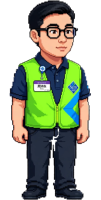
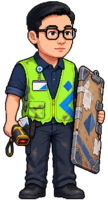
feat: 重塑两名角色视觉并接入游戏
影响范围: assets-src/heroes/candidates, public/assets/heroes, scripts/prep-assets.cjs, README.md, engine/data/classes.js, HANDOFF.md

diff --git a/engine/data/classes.js b/engine/data/classes.js
@@ -4,10 +4,10 @@
  * 目前只开放两个角色（素材由用户提供）。每个角色既是"外观"也是"职业"，
  * 拥有各自的属性成长与技能树。
  *
- * 【加角色】往 CLASSES 里加一项 + CLASS_ORDER 加 id，并准备 4 张素材：
- *    assets-src/heroes/<sprite>_full.png   全身立绘（深色纯底）
- *    assets-src/heroes/<sprite>_walk.png   走路精灵表（4 帧横排）
- *   然后跑 node scripts/prep-assets.cjs 生成到 public/assets/heroes/
+ * 【加角色】往 CLASSES 里加一项 + CLASS_ORDER 加 id，并准备两张源素材：
+ *    全身立绘（透明图或深色纯底图）
+ *    走路精灵表（4 帧横排）
+ *   在 scripts/prep-assets.cjs 的 MANIFEST 登记后生成到 public/assets/heroes/
  *
  * 技能效果用统一的 effect 结构描述，engine/hero.js 负责算成属性。
  */
@@ -29,11 +29,20 @@ const CLASSES = {
     base: { hp: 230, atk: 15, def: 15, heal: 6, atkSpeed: 0.95, crit: 0.05, critDmg: 1.5, moveSpeed: 1.0 },
     growth: { hp: 21.0, atk: 1.15, def: 2.0, heal: 0.75 },
     skills: [
-      { id: 'n_hp',    name: '牛马体魄', type: 'passive', max: 10, desc: '每级 +6% 最大生命',        effect: { pctHp: 0.06 } },
+      {
+        id: 'n_hp', name: '牛马体魄', type: 'passive', max: 10,
+        desc: '每级 +6% 最大生命', effect: { pctHp: 0.06 }
+      },
       { id: 'n_def',   name: '耐磨护甲', type: 'passive', max: 10, desc: '每级 +7% 防御',            effect: { pctDef: 0.07 } },
-      { id: 'n_regen', name: '摸鱼回血', type: 'passive', max: 8,  desc: '每级 +30% 每秒回复',       effect: { healPower: 0.30 } },
+      {
+        id: 'n_regen', name: '摸鱼回血', type: 'passive', max: 8,
+        desc: '每级 +30% 每秒回复', effect: { healPower: 0.30 }
+      },
       { id: 'n_shield',name: 'KPI 护盾', type: 'active',  max: 5,  desc: '每级开场获得 5% 生命护盾', effect: { shield: 0.05 } },
-      { id: 'n_taunt', name: '扛下所有', type: 'active',  max: 5,  desc: '每级 +3% 全队生命',        effect: { partyHpPct: 0.03 } },
+      {
+        id: 'n_taunt', name: '扛下所有', type: 'active', max: 5,
+        desc: '每级 +3% 全队生命', effect: { partyHpPct: 0.03 }
+      },
       { id: 'n_thorns',name: '反骨',     type: 'passive', max: 8,  desc: '每级反弹 4% 受到伤害',     effect: { thorns: 0.04 } },
       { id: 'n_gold',  name: '打工攒钱', type: 'passive', max: 5,  desc: '每级 +4% 金币获取',        effect: { goldPct: 0.04 } }
     ]

diff --git a/HANDOFF.md b/HANDOFF.md
@@ -5,6 +5,21 @@
 
 ## 1. 已完成内容
 
+### 阶段 9：两名现有角色视觉重塑并接入游戏
+
+| 产出 | 路径 | 行为变化 | 验证方式 |
+| --- | --- | --- | --- |
+| 牛马新版源素材 | `assets-src/heroes/candidates/niuma-concept-v2.png`、`niuma-walk-v2.png` | 保留眼镜、荧光马甲与疲惫打工人身份，移除真实品牌，增加工作板盾牌和扫码武器，形成前排坦克轮廓 | 内置图像生成以旧立绘和旧四帧表为身份/姿势参考；逐张检查透明背景、完整四肢、四帧装备一致性 |
+| 肉蛋葱新版源素材 | `assets-src/heroes/candidates/roudan-concept-v2.png`、`roudan-walk-v3.png` | 从普通黑衣青年改为绿/米白/蛋黄配色的远程角色，增加巨型葱、葱炮、肉丸袋和鸡蛋瓶；v3 修复站立帧武器跨边界裁切 | 内置图像生成后逐帧检查；被否决的 `roudan-walk-v2.png` 未纳入仓库 |
+| 透明源图与非整除画布支持 | `scripts/prep-assets.cjs` | 自动识别已有透明通道并跳过二次抠图；1774px 四帧表在右侧补到1776px后再切片，避免丢失末尾像素 | `node scripts/prep-assets.cjs` 退出码 0；日志显示两张四帧表均“画布补宽 1774->1776”，生成2张480px立绘和8张200px动画帧 |
+| 正式浏览器产物 | `public/assets/heroes/*.png` | 游戏角色选择页、战场和阵容页全部显示新版角色；保持原文件名与前端协议不变，无需迁移存档 | 浏览器打开 `http://localhost:8892/`：牛马选择卡、96px战场帧和阵容立绘均可见；打开 `http://127.0.0.1:8892/` 新建肉蛋葱存档并开始挂机，巨型葱、葱炮和角色立绘均无裁切 |
+| 素材文档同步 | `README.md`、`engine/data/classes.js` | 说明源图可为透明图或纯底图，输入由 `MANIFEST` 登记，并记录补宽、切帧和底对齐顺序 | `node --check engine/data/classes.js scripts/prep-assets.cjs` 退出码 0；文档中的目录和脚本均实际存在 |
+
+本阶段只改变角色美术与离线素材处理，不调整角色属性、技能效果、存档结构或战斗结算。
+完整回归：`node scripts/smoke.cjs`、`node scripts/ui-smoke.cjs`、
+`node scripts/balance.cjs 6` 均退出码 0；端口 8892 的服务器上执行
+`TEST_URL=ws://localhost:8892/ws node scripts/e2e.cjs`，退出码 0，末行“✅ 全部通过”。
+
 ### 阶段 8：素材管线像素复制逻辑小规模重构
 
 | 产出 | 路径 | 行为变化 | 验证方式 |
@@ -561,10 +576,21 @@ node scripts/e2e.cjs
 - **选择理由**：两个循环原先分别手写 RGBA 四通道复制，后续支持透明源图时容易只修一处；
   否决引入图像处理新库或同时重写缩放算法，因为那会改变生成文件，无法满足重构行为一致性要求。
 
+### 2.8 角色源素材与浏览器产物继续分层
+
+- **边界划分**：高分辨率候选与四帧源图由 `assets-src/heroes/candidates/` 持有；
+  `scripts/prep-assets.cjs` 负责透明处理、切帧与降采样；`public/assets/heroes/` 只存浏览器直接消费的产物。
+- **依赖方向**：保持 `assets-src/ → scripts/ → public/assets/` 的单向生成关系；
+  浏览器不读取源素材，脚本也不被引擎或前端运行时代码引用。
+- **选择理由**：保留高分辨率源图可重复调整产物，又不让浏览器加载兆字节级素材；
+  否决直接手工覆盖单帧文件，因为无法稳定复现四帧尺寸与脚底基线。
+
 ## 3. 明确未做的范围
 
 | 排除项 | 排除原因 | 纳入条件 |
 | --- | --- | --- |
+| 牛马“工作压力”与肉蛋葱“三段食材连击” | 本阶段目标是验证新版角色视觉，机制会改变战斗数值与快照结构，必须独立记录平衡基线 | 角色视觉验收稳定后，作为独立战斗机制阶段实现 |
+| 专属攻击特效和技能图标 | 需要先确定战斗中角色轮廓和武器尺寸，避免按旧素材制作后返工 | 两名角色新版战场帧通过目视验收后 |
 | `cutBackground`、`resize` 与连通块算法重构 | 本次重构限制在一个脚本和像素复制重复代码内，继续扩大会超过“可逐字节证明等价”的安全范围 | 新版透明角色接入时按功能需求单独修改，并目视检查全部产物 |
 | 拆分 JSON/SQLite 存储后端 | 与当前角色素材目标无关，且涉及服务器持久化，不应与素材脚本重构混提 | 进入中心服务器稳定性阶段并准备双后端等价测试后 |
 | 更换图像处理库或重写算法 | 本阶段只恢复既有脚本的可安装性，混入算法变更会无法判断产物变化来自依赖还是实现 | 作为独立素材管线重构阶段，并验证生成文件哈希 |
@@ -655,6 +681,15 @@ TEST_URL=ws://localhost:8899/ws node scripts/e2e.cjs
 | `scripts/smoke.cjs` 不可复现（见第 4 节 4.10） | 属测试可复现性修复，与本阶段存储修复不混提（规范 0.4 一次 commit 一个阶段目标） | 单独提交：给 `createNewSave` 传固定 `seed`，与当初修 `balance.cjs` 的做法一致 |
 
 ## 4. 已知问题与坑
+### 4.23 新版武器已有静态轮廓，但攻击仍沿用通用位移动画
+
+- **复现条件**：任意角色开始挂机并观察普攻；牛马只做向上突进，肉蛋葱只显示通用剑形投射符号。
+- **影响范围**：`public/js/stage.js` 的战斗反馈。新版盾牌、扫码枪与葱炮能在角色帧中看见，
+  但尚未参与攻击动作，角色机制辨识度仍主要来自静态外观。
+- **规避或临时修复手段**：当前不影响结算与可玩性；先使用新版四帧行走图，
+  下一阶段为两人分别增加盾击/扫码闪光与葱弹投射效果。
+- **是否已登记跟踪**：是，列入角色战斗特色阶段。
+
 ### 4.7 `node scripts/balance.cjs` 改前必须确认种子是固定的
 
 - **复现条件**：在 `balance.cjs` 修复之前（commit `d4735cf` 之前）连跑两次 `node scripts/balance.cjs 6`。

diff --git a/README.md b/README.md
@@ -237,31 +237,31 @@ public/          前端（原生 JS，无构建步骤）
   js/app.js      页签渲染与指令发送
   js/net.js      WebSocket 封装
   js/gm.js       GM 控制台
-  assets/heroes/ 抠图产物：立绘 + 走路 4 帧
-assets-src/heroes/ 角色原始素材（深色纯底图）
+  assets/heroes/ 处理产物：立绘 + 走路 4 帧
+assets-src/heroes/ 角色原始素材（透明图或深色纯底图）
 scripts/         测试与维护脚本
   smoke.cjs      引擎冒烟
   ui-smoke.cjs   前端逻辑（DOM 桩，不需浏览器）
   e2e.cjs        端到端（需先启动服务器）
   balance.cjs    平衡模拟，固定随机种子
-  prep-assets.cjs 抠图：原图 → 去背 → 切 4 帧 → 统一画布
+  prep-assets.cjs 素材处理：透明检测 → 去背/保留 alpha → 切帧 → 统一画布
   reset.js       清档
 data/            运行时数据库（game.db）与 GM 令牌（已 gitignore）
 ```
 
 ### 4.7 角色素材管线
 
-两个角色的图都来自 `assets-src/heroes/`，各两张：`*_full.png`（全身立绘）与
-`*_walk.png`（走路 4 帧横排）。`npm run assets` 会：
+两个角色的源图都在 `assets-src/heroes/`，每名角色包含全身立绘与走路四帧横排图，
+实际输入路径由 `scripts/prep-assets.cjs` 的 `MANIFEST` 指定。`npm run assets` 会：
 
-1. 边缘 flood fill 去背景，产出透明底 PNG
-2. 把走路表切成 4 张独立帧
-3. 逐帧去残片 + trim + 统一到最大宽高并底对齐（避免播放时人物抖动）
+1. 检测源图透明通道；透明图保留 alpha，纯底图通过边缘 flood fill 去背景
+2. 将精灵表宽度补齐到帧数的整数倍，再切成 4 张独立帧
+3. 逐帧去残片、裁边、统一最大宽高并底对齐，避免动画左右或上下抖动
 
 产物落在 `public/assets/heroes/`，前端直接引用。
 
 **加新角色**需要：往 `engine/data/classes.js` 的 `CLASSES` 加一项、`CLASS_ORDER` 加 id，
-再按上面的命名把两张原图放进 `assets-src/heroes/`，然后跑 `npm run assets`。
+把两张原图放进 `assets-src/heroes/`，在 `MANIFEST` 登记输入和输出，再运行 `npm run assets`。
 抠图阈值很敏感（见 `HANDOFF.md` 第 4 节的已知问题），换素材后务必目视检查全部产物。
 
 ---
@@ -270,7 +270,7 @@ data/            运行时数据库（game.db）与 GM 令牌（已 gitignore）
 
 - **服务器权威**：战斗在服务器算，客户端只渲染。多端看到的状态永远一致，也没法改本地内存作弊
 - **固定步长 tick**：`combat.tickMs = 1000`，断线重连/服务器卡顿会补算（上限 600 步），不同帧率下结果一致
-- **无构建步骤**：没有 webpack/vite，改完 HTML/JS 刷新即可。依赖只有 2 个包
+- **无前端构建步骤**：没有 webpack/vite，改完 HTML/JS 刷新即可；`pngjs` 只用于离线生成素材
 - **SQLite 但可降级**：`better-sqlite3` 装不上时自动退回 JSON 文件存储，功能不变
 - **状态推送**：每 tick 给在线玩家推一次完整快照（约 6 KB），2~3 人毫无压力。
   人多的话改成"只推变化的部分"，入口在 `server/index.js` 的 `pushStates()`
